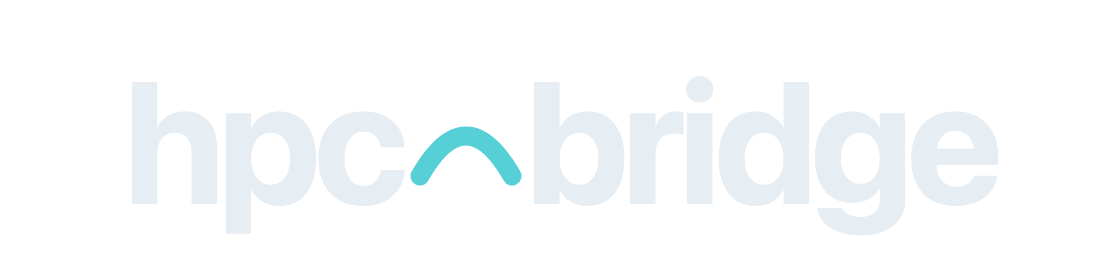
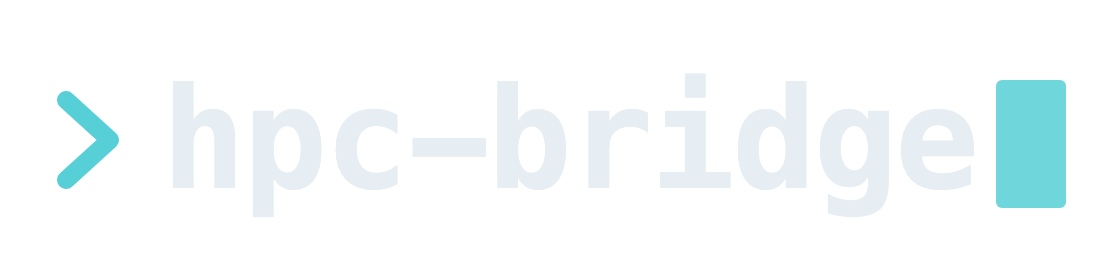
docs: the maintainer's round-2 answers — the Prompt wordmark, claims, and a guide for 0.1.27
- The wordmark is option 2, "Prompt": SF Mono with a teal chevron and a block cursor
  (docs/media/wordmark.html; option 1's markup is gone). The PNGs come from build.sh.
- "Tested live" lists only recent evidence: Purdue Anvil (November 2026, this release's
  batches, sized rows and environments included), ALCF Polaris and NCSA Delta (October
  2026). Midway is gone, and so is Expanse, whose last proof is on the older 4.16 client.
- Facilities: Globus Labs' cluster is out of the README until it is re-proven. Expanse
  stays, with a clause on SDSC's ask that workflow tools not run on its login nodes;
  docs/user/facilities.md gains the details (what runs there, teardown each session,
  or ask SDSC) and the Expanse row's date. The bring-your-own proof line goes too.
- docs/user/costs-and-stopping.md for 0.1.27: blocks sized to the work (slices, whole
  nodes, several nodes), memory beyond the cores' share raising the cores (#253), Jobs
  and their budget (the worst case, the cap and deadline, the meter, hand submits
  gated and adopted, SSH facilities only), stops that ask keep/cancel for jobs and
  refuse while a batch runs, and a block an earlier session left (#250).
- docs/user/batches-jobs-envs.md (new): what each is for, the prompts, what the agent
  shows before any spend, and the limits; linked from the guide's index and from the
  README's "What it can do".

diff --git a/docs/media/wordmark.html b/docs/media/wordmark.html
@@ -1,7 +1,7 @@
 <!doctype html>
 <!-- The README's wordmark: wordmark.png for GitHub's light page, wordmark-dark.png for its dark one.
      scripts/readme-media/build.sh renders each <figure data-out> at 2x on a transparent background (render.mjs marks).
-     System fonts only (SF Pro on macOS): an <img> can't load web fonts, and the PNG needs none. -->
+     System fonts only (SF Mono on macOS): an <img> can't load web fonts, and the PNG needs none. -->
 <html>
 <head>
 <meta charset="utf-8">
@@ -10,14 +10,15 @@
 body { margin: 0; padding: 20px; display: grid; gap: 20px; justify-content: start; background: transparent; }
 figure { margin: 0; width: 560px; height: 140px; display: flex; align-items: center; justify-content: center; color: var(--ink); }
 figure.dark { --ink: #e6edf3; --acc: #56d0d6; }
-/* SF Pro, bold and tight; the hyphen is the bridge, a span in the accent. */
-.mark { display: flex; align-items: baseline; font: 700 86px/1 system-ui, -apple-system, "Helvetica Neue", sans-serif; letter-spacing: -0.035em; }
-svg { width: 56px; height: 86px; margin: 0 2px 0 4px; align-self: center; transform: translateY(3px); overflow: visible; }
-path { fill: none; stroke: var(--acc); stroke-width: 9.5; stroke-linecap: round; }
+/* A REPL's prompt: SF Mono semibold, a chevron and a block cursor in the accent. */
+.mark { display: flex; align-items: center; font: 600 70px/1 ui-monospace, "SF Mono", Menlo, monospace; letter-spacing: -0.02em; }
+.chev { width: 34px; height: 56px; margin-right: 20px; overflow: visible; }
+.chev path { fill: none; stroke: var(--acc); stroke-width: 9; stroke-linecap: round; stroke-linejoin: round; }
+.cur { display: inline-block; width: 0.5em; height: 0.92em; margin-left: 10px; background: var(--acc); border-radius: 3px; opacity: 0.85; transform: translateY(2px); }
 </style>
 </head>
 <body>
-<figure data-out="wordmark.png"><div class="mark">hpc<svg viewBox="0 0 56 86" aria-hidden="true"><path d="M 5 58 Q 28 18 51 58" /></svg>bridge</div></figure>
-<figure class="dark" data-out="wordmark-dark.png"><div class="mark">hpc<svg viewBox="0 0 56 86" aria-hidden="true"><path d="M 5 58 Q 28 18 51 58" /></svg>bridge</div></figure>
+<figure data-out="wordmark.png"><div class="mark"><svg class="chev" viewBox="0 0 34 56" aria-hidden="true"><path d="M 6 8 L 28 28 L 6 48" /></svg>hpc-bridge<span class="cur"></span></div></figure>
+<figure class="dark" data-out="wordmark-dark.png"><div class="mark"><svg class="chev" viewBox="0 0 34 56" aria-hidden="true"><path d="M 6 8 L 28 28 L 6 48" /></svg>hpc-bridge<span class="cur"></span></div></figure>
 </body>
 </html>

diff --git a/docs/user/costs-and-stopping.md b/docs/user/costs-and-stopping.md
@@ -3,34 +3,52 @@
 ## Nothing is billed without your say-so
 
 Connecting, listing facilities, and logging in are free. Discovery on an SSH-bootstrap facility runs
-on a free login-node worker. The first thing that costs allocation is a compute block. Before the
-first one on a facility, the agent asks you one question, only for what you have not said: which
+on a free login-node worker. What costs allocation is a compute block (a batch's rows run on one too) and a job.
+Before the first block on a facility, the agent asks you one question, only for what you have not said: which
 allocation account to charge, where one is needed (when the registry knows where you find yours, the
-agent passes that on), and whether the partition is fine. The question names the partition and the
-account, where each came from (the registry's default, your own choice, a preset), the number of
+agent passes that on), and whether the partition and the size are fine. The question names the partition and the
+account, where each came from (the registry's default, your own choice, a preset), the block's size, the number of
 nodes and the walltime, and your yes is the confirmation. If you named the partition and the account
 yourself, or said "the defaults", the agent states them back in one line and starts. An account or
 partition set with `HPC_BRIDGE_ACCOUNT` or `HPC_BRIDGE_PARTITION` counts as named, and the agent says
 it is the preset; an account it remembers from an earlier session is only suggested, never used
-without asking.
+without asking. Jobs have a budget of their own, approved once: see [Jobs and their budget](#jobs-and-their-budget).
 
-A batch job the agent submits for you (`sbatch`, `qsub`) costs allocation the same way, from wherever
-it is submitted, so it asks before that too. Changing the partition or account later means a new
-block, so it asks again, and the switch does not cancel the old block. On an SSH-bootstrap facility
-it idles out on its own, and a stop before you confirm the new block ends it at once. On a
-facility-run endpoint nothing can cancel it: the agent gives you its job id, when hpc-bridge knows
-it, and the command that ends it. The partition and account you chose are kept for the session,
-after a stop too. On a facility-run, compute-only endpoint there is no free tier at all, so the
-question comes at the first command.
+Changing the partition, the account or the size later means a new block, so it asks again, and the switch does not
+cancel the old block. On an SSH-bootstrap facility it idles out on its own, and a stop before you confirm the new
+block ends it at once. On a facility-run endpoint nothing can cancel it: the agent gives you its job id, when
+hpc-bridge knows it, and the command that ends it. The partition, account and size you chose are kept for the
+session, after a stop too. On a facility-run, compute-only endpoint there is no free tier at all, so the question
+comes at the first command.
 
 ## What a block costs
 
-A block is a scheduler job — one node on every facility in the registry today — held for as long as you are active
-plus the facility's idle timeout (the agent quotes it when the facility publishes it, and says so when it does not). Its walltime is the facility's default unless you ask for another. The agent reports a
-session spend estimate; it is a real number only if you have set `HPC_BRIDGE_CHARGE_FACTOR` to your
-allocation's service-unit rate per node-hour (hpc-bridge does not know your facility's rates), and reads
-as zero otherwise, as it always does on unmetered machines such as Globus Labs' cluster. Zero does not
-mean free tier, it means unmetered.
+A block is a scheduler job sized to the work, held for as long as you are active plus the facility's idle timeout
+(the agent quotes it when the facility publishes it, and says so when it does not). Its walltime is the facility's
+default unless you ask for another.
+
+- **On a partition that shares nodes** (billed per core), the spend question proposes a slice of one node: 8 cores,
+  never more than half a node or a per-job cap allows, with the partition's default memory per core. Confirm it, or
+  ask for the cores, memory or GPUs the work needs, or a whole node.
+- **On a partition that hands out only whole nodes,** a block is a whole node, and bills every core of it.
+- **Several nodes** (not offered on a facility-run endpoint) are one shell on the first node: work reaches the
+  others through `srun` or `mpiexec`, and nodes the work does not use still bill.
+- **A batch with no block yet** gets one derived from its rows: see [Batches](batches-jobs-envs.md#batches).
+
+Where the partition's billing weights are known, the terms carry the most the block can cost, for example "at most
+4 SU: 8 cores × 0.5 h".
+
+**Memory beyond the cores' share.** A Slurm partition can cap the memory each core may hold (`MaxMemPerCPU`), and
+then gives, and bills, a block that asks for more memory than its cores' share the extra cores that memory needs.
+Where hpc-bridge knows the cap, the block asks for those cores itself and the terms say so, for example "15.5 GB
+needs 9 cores' memory share on partition 'shared' (1896 MB each): 9 cores are billed, and the block asks for 9, not
+8". Where it does not know the cap, it guesses nothing, and the terms say the scheduler may give, and bill, more cores
+than asked. On PBS, it raises the cores only where the registry's entry for the facility states the share.
+
+The agent reports a session spend estimate; it is a real number only if you have set `HPC_BRIDGE_CHARGE_FACTOR` to
+your allocation's service-unit rate per node-hour (hpc-bridge does not know your facility's rates), and reads as zero
+otherwise, as it always does on unmetered machines such as Globus Labs' cluster. Zero does not mean free tier, it
+means unmetered.
 
 ## Warm between commands
 
@@ -49,11 +67,30 @@ orphaned rather than left to poll forever.
 A task cannot outlive its block. When the block's walltime expires (30 minutes on Expanse by
 default, 15 on Anvil's facility endpoint), the task is killed with exit code 124 and you get the output it produced up to
 then; hpc-bridge does not resubmit it. For work longer than a block, either have it checkpoint and resume
-on the next block, or ask the agent to submit a batch job with `sbatch` or `qsub` and check on it later:
-from the login node, or, on a facility-run endpoint (which has no login node), from inside the block where
-the site allows it. That job is billed to your allocation like a block, so the agent asks before
-submitting it; hpc-bridge does not count it in the session spend and a stop does not cancel it, so ask for
-it to be cancelled (`scancel` or `qdel`) when you no longer want it.
+on the next block, or ask the agent to run it as a [job](batches-jobs-envs.md#jobs), which has its own walltime and
+outlives the session.
+
+## Jobs and their budget
+
+A job the agent submits for you costs allocation like a block, and runs under a budget you approve once. The first
+job proposes it, with nothing submitted yet: the job's worst case (every array task × its size × its walltime, never
+below the queue's minimum charge), a cap in the facility's billing units, and a deadline (24 hours unless you say
+otherwise, at most 7 days). Jobs of yours already in the queue that hpc-bridge did not start count against the cap
+and are named, so you can leave out one that isn't yours to count. Inside the budget, a job that fits starts at once;
+one that does not asks again, and the agent never splits or shrinks work to slip under it.
+
+hpc-bridge reads what its jobs have used from the scheduler's accounting (`sacct` on Slurm, `qstat` on PBS), and
+counts what a running job may still use (its remaining walltime) as held. Every Slurm job carries the deadline
+(`--deadline`), so none runs past it; on PBS the deadline is the server's to enforce. The budget binds only what
+hpc-bridge starts, and a new session asks for it again, naming what is left.
+
+A job you submit by hand (`sbatch`, `qsub`) bills too. While a budget is open, hpc-bridge asks first, runs your
+command as you wrote it, and adopts the jobs it started into the budget. With no budget open, the agent asks before
+it submits one, and hpc-bridge does not track it unless you ask the agent to adopt it.
+
+Jobs need a facility hpc-bridge reaches over SSH. A facility-run endpoint gives it no way to check on or cancel a
+job, so the agent refuses to submit one there: run the work as a [batch](batches-jobs-envs.md#batches) on one block
+instead.
 
 ## Stopping
 
@@ -87,6 +124,15 @@ it to be cancelled (`scancel` or `qdel`) when you no longer want it.
   an upper bound. If you use the block again after the stop, it counts from that new confirmation, so
   that stretch can count twice; a later stop never counts the same tail again. A block an earlier stop
   left was counted in the spend reported then, and a block a still-queued check starts is not counted.
+- **Jobs:** while jobs hpc-bridge started can still bill, a stop asks first and names each one, with nothing
+  cancelled yet. *Cancel* ends them too and closes their budget; the stop says `down` only once the scheduler lists
+  none of them. *Keep* releases only the blocks and leaves the jobs running under their budget and deadline; the
+  stop's `draining` then names them and how to end them. Either way, nothing new is admitted after a stop: the next
+  job asks for a new budget.
+- **Batches:** a stop is refused while a batch's rows are running on the block. Ask the agent to abort the batch, or
+  let its rows finish, then stop.
+- **Handoffs:** while an endpoint handoff you exported is unexpired, a stop on an endpoint hpc-bridge set up asks
+  whether to keep the consumer's pool running or cancel it too; on a facility-run endpoint it names the handoff.
 
 A stop is refused while a command of yours is still running on the block, because releasing the block
 would not end it: the endpoint would start another block to finish it. Interrupting a long command
@@ -95,8 +141,27 @@ as a task, and the stop is refused until it ends or the agent polls it to comple
 facility a teardown abandons it. On a facility-run endpoint nothing can end it early, and the stop waits
 for it unless it has had no result long after its time limit. It is then presumed lost and abandoned.
 
+## A block an earlier session left
+
+Each new chat usually starts a fresh hpc-bridge server, but a block the last session confirmed can still be running.
+hpc-bridge records every billed block before it asks the scheduler for it, and a later session checks those records
+against the scheduler before it starts anything:
+
+- **The connect names it:** its job, in the scheduler's own words (running, or pending and why), its terms, and
+  when it will end on its own.
+- **A yes on the same terms reuses it,** with no second block. Any other yes first asks, naming it, and starts
+  nothing.
+- **A stop reaches it even with nothing connected.** On an SSH-bootstrap facility the stop cancels it and says
+  `down` only once that is confirmed; otherwise it says `draining` and gives you the job id and the command that
+  ends it.
+
+Only blocks started from this machine by a session that is gone are reused or released; a block another session is
+still using, or another machine started, is named and never touched. On a facility-run endpoint the earlier block is
+named but can't be checked or cancelled, like any block there.
+
 ## If you walk away
 
 Idle blocks release themselves after the facility's timeout. A session that ends without a stop
 therefore costs at most that timeout on top of what you used. Quitting Claude Code does not cancel
-a block; ask for a stop first if you want it released now.
+a block; ask for a stop first if you want it released now. Jobs run on until they finish, reach their walltime or
+reach their budget's deadline; ending a session does not cancel them.

diff --git a/docs/user/facilities.md b/docs/user/facilities.md
@@ -22,7 +22,7 @@ an unknown host key is refused with **"UNKNOWN HOST KEY"** until you have connec
 | Facility | Access | Scheduler | Notes |
 |---|---|---|---|
 | **Purdue Anvil** (`anvil`, ACCESS) | facility-run endpoint, zero SSH | Slurm | your ACCESS identity must map to your Anvil account. Compute-only; account = your ACCESS project id lowercased (e.g. `cis250223`); default partition `shared`, one core per block. The entry sends no GPU request, and Anvil's GPU partitions need one, so a GPU job (and its `-gpu` account) cannot be used through this entry yet: hpc-bridge has no per-session way to add scheduler directives to a registry facility. Validated 2026-10-09. Anvil over SSH is no longer in the registry; it still works as a bring-your-own cluster (`anvil.rcac.purdue.edu`). |
-| **SDSC Expanse** (`expanse`, ACCESS) | SSH bootstrap on `login.expanse.sdsc.edu`, with a one-time code | Slurm | every login needs a TOTP code even with a key; the agent asks you for the current code and opens the shared session itself (a password, by contrast, is never handled in the chat: you would get an `ssh` command for your own terminal). The first connect installs `uv` and Globus Compute into your home there (a minute or two). Account = your Expanse project id (e.g. `chi152`); default partition `shared`, `debug` for short tests. Validated 2026-09-04 (login shape). |
+| **SDSC Expanse** (`expanse`, ACCESS) | SSH bootstrap on `login.expanse.sdsc.edu`, with a one-time code | Slurm | every login needs a TOTP code even with a key; the agent asks you for the current code and opens the shared session itself (a password, by contrast, is never handled in the chat: you would get an `ssh` command for your own terminal). The first connect installs `uv` and Globus Compute into your home there (a minute or two). Account = your Expanse project id (e.g. `chi152`); default partition `shared`, `debug` for short tests. SDSC asks that workflow tools not run on its login nodes: see [below](#sdsc-expanse-and-its-login-nodes). Validated 2026-10-06, on an older Globus Compute client than today's. |
 | **NCSA Delta** (`delta`, ACCESS) | facility-run endpoint, zero SSH | Slurm | compute-only; every command runs on a billed block. You need a Delta allocation and its NCSA project code as the account (looks like `bgta-delta-gpu`; see it with `accounts` on a Delta login node). Default partition `gpuA40x4` with one GPU requested; CPU partitions charge a CPU allocation. Validated 2026-09-04. |
 | **ALCF Polaris** (`polaris`) | facility-run endpoint, zero SSH | PBS Pro | link your ALCF identity (ALCF username + MobilePASS+) to your Globus login so the facility can map you to your ALCF account. Compute-only; account = your ALCF project name (e.g. `Diaspora`); default queue `debug` (`partition` sets the queue). The entry sends no scheduler directives, so jobs get the facility's default, `-l filesystems=home`: a job that needs `eagle` or `grand` cannot request them through this entry yet (hpc-bridge has no per-session way to add scheduler directives to a registry facility). Workers run ALCF's own Python 3.13 install. A stopped block idle-releases after 240 s. Validated 2026-10-13. |
 | **Globus Labs cluster** (`globus-labs`) | facility-run endpoint, zero SSH | Slurm | Globus Labs members only (the facility maps their identities). Compute-only: there is no login node, every command runs on a billed block on partition `main` that stays warm between commands; no allocation account needed; unmetered lab hardware (3 ARM DGX Spark nodes, aarch64: bring ARM builds) |
@@ -30,6 +30,20 @@ an unknown host key is refused with **"UNKNOWN HOST KEY"** until you have connec
 More facilities operate Globus Compute multi-user endpoints (ALCF Polaris and Crux, NeSI). hpc-bridge reads each facility endpoint's published template contract when it attaches,
 so adding one is a registry entry plus a live check; see the vault's
 [MEP facilities survey](../hpc-bridge-vault/Reference/MEP%20facilities%20survey.md).
+
+## SDSC Expanse and its login nodes
+
+SDSC's [Expanse user guide](https://www.sdsc.edu/systems/expanse/user_guide.html) ("Logging in to Expanse", notes
+and hints) asks you not to use the login nodes "as hosts for running workflow management tools". The registry
+reaches Expanse by the SSH bootstrap, which runs a Globus Compute endpoint (a small manager process, idle between
+tasks) on the login node and leaves it running between sessions so the next connect needs no SSH. The free
+discovery commands the agent runs (`sinfo`, `squeue`) run on the login node too; everything else runs in the billed
+block on a compute node. That plausibly falls under SDSC's rule, so on Expanse:
+
+- ask the agent for a *teardown* at the end of each session: it stops and removes the endpoint, and the next
+  session sets it up again (one SSH login with a one-time code, and a minute or two), as for any facility that
+  [forbids persistent processes on login nodes](#what-hpc-bridge-does-on-your-cluster);
+- or ask SDSC, through ACCESS support, whether a Globus Compute endpoint on a login node is acceptable for your use.
 
 ## Which Globus identity to use
 
@@ -50,8 +64,6 @@ one block for as long as you are active plus that timeout, not one block per com
 ## Bringing your own cluster
 
 > Connect me to the cluster at `login.example.edu`
-
-This path has been proven live on UChicago's Midway (Slurm) and on ALCF Polaris over SSH (PBS).
 
 The agent probes the login node over SSH, proposes the facility settings it discovered (scheduler,
 the network interface the endpoint should bind, scratch space, an environment setup line) and asks

diff --git a/docs/user/batches-jobs-envs.md b/docs/user/batches-jobs-envs.md
@@ -1,0 +1,88 @@
+# Batches, jobs and environments
+
+Beyond one command at a time, hpc-bridge has three ways to work. Ask for them in plain language; the agent picks the
+tool.
+
+| | What it's for | Where it runs | Lasts |
+|---|---|---|---|
+| **[Batch](#batches)** | the same command over many inputs | the session's block, several rows at once | as long as the block; its record outlives the session |
+| **[Job](#jobs)** | long work, arrays, work that waits on other work | its own scheduler job | its own walltime, after the session ends |
+| **[Environment](#environments)** | the software every command, row and job runs in | wherever they run | the session, and the jobs and handoffs that carry it |
+
+## Batches
+
+A batch sends one command over many rows, each with its own values, as many at once as the block holds. You size a
+row as you would an sbatch array task: its cores, its memory, its GPUs, and how many run at once. hpc-bridge pins
+each row to its own CPUs, sets its thread counts (`OMP_NUM_THREADS` and the like) to its cores, and records every row
+in a ledger that outlives the session, so a new chat can ask how it went.
+
+> Run `./simulate.sh {n}` for n = 1 to 200 as a batch: 4 cores and 8 GB per row, 10 at a time, up to 20 minutes each.
+
+> I don't know how big a row is. Run one as a pilot first.
+
+> How is the batch doing? Which rows failed, and why?
+
+> Stop the batch but let the running rows finish. / Abort the batch.
+
+**Before any spend.** With no block yet, the block is derived from the rows (10 rows of 4 cores and 8 GB at once is
+41 cores, one kept for your own commands, and their memory plus the workers' own, on one node), and the spend
+question names it like any block. With no size given, the agent asks you for one, quoting the node's cores, memory
+and GPUs. A *pilot* runs one row alone on the whole block and proposes a size from what it used (cores from its CPU
+time over its wall time, memory 1.25 × its peak), for you to confirm or change.
+
+**Limits.**
+- A batch runs on one node, at most 32 rows at once.
+- Each row needs a time limit; a row starts only while the block has that much walltime left, plus 30 seconds.
+- A row past its memory is killed (exit code 87) and named in the results with its peak use.
+- When the block ends under the batch (its walltime, a stop, a restart), the batch pauses and the agent asks before
+  it starts the next block.
+- A row's own `srun` runs where Slurm places it, not on the row's CPUs, and outside its memory watch.
+
+## Jobs
+
+A job is work the scheduler runs on its own: it outlives the session, and has its own walltime. hpc-bridge writes its
+script once, with the session's working directory and environment, and tracks it in the same ledger. Jobs can be
+arrays, and can wait for other jobs.
+
+> Submit `python train.py --epochs 50` as a job: 1 GPU, 8 cores, 32 GB, 6 hours.
+
+> Submit `./sweep.sh {index}` as an array of 20 tasks, 4 at a time, 30 minutes each.
+
+> What have my jobs used so far, and what's left of the budget?
+
+> Cancel job job-3f2a.
+
+**Before any spend.** The first job proposes a budget, with nothing submitted yet: the job's worst case (every array
+task × its size × its walltime, never below the queue's minimum charge), a cap, and a deadline (24 hours unless you say
+otherwise, at most 7 days). Your yes opens it; after that a job that fits starts at once, and one that doesn't asks
+again. [Jobs and their budget](costs-and-stopping.md#jobs-and-their-budget) has how it is counted, and what a stop does
+with jobs still running.
+
+**Limits.**
+- Jobs need a facility hpc-bridge reaches over SSH. A facility-run endpoint gives hpc-bridge no way to check on or
+  cancel a job, so the agent refuses there: run the work as a batch on one block instead.
+- The budget binds only what hpc-bridge starts, and a new session asks for it again.
+- On PBS the deadline is the server's to enforce; on Slurm every job carries it.
+
+## Environments
+
+Name an environment once, and every command, batch row and job runs in it. Switching starts no new block, so it asks
+nothing about spend.
+
+> Use `module load pytorch/2.4; conda activate ml` for everything.
+
+> Build an environment with numpy and scipy==1.14, and run the batch in it.
+
+**An existing environment** is a line that activates it (a `module load`, a `conda activate`, a `source`), and works
+on every facility. **A built environment** is made from a requirements list, with `uv`, on the free login node of an
+endpoint hpc-bridge set up over SSH. It is cached by Python version and requirements, made read-only, and used once it
+is ready: commands keep the previous environment while it builds. A build that fails leaves the previous one in
+place and quotes the installer's error.
+
+**Limits.**
+- A facility-run endpoint can't build an environment yet: give it an activate line instead.
+- A requirements list may not point at other files or hosts: `-r`, `-c`, `-e`, local paths, `--trusted-host` and
+  options outside a short allow-list are refused by name. Index credentials are never shown or stored in the clear.
+- A built environment runs only on nodes of the login node's CPU architecture.
+- A command whose environment has gone runs nothing (exit code 88); a purged built environment is rebuilt on the
+  login node, and anything a rebuild can't fix is said by name.

diff --git a/README.md b/README.md
@@ -88,24 +88,26 @@ comes back as a task the agent polls, and keeps the block busy while it runs.
 The same command over many inputs is one batch. You size a row as you would an sbatch array task, in cores, memory and
 GPUs; hpc-bridge derives the block from the rows, pins each row to its own CPUs, and records every row in a ledger
 that outlives the session. Not sure of the size? A pilot runs one row alone on the block and proposes one from what it
-used.
+used. [Batches](docs/user/batches-jobs-envs.md#batches) has the prompts and the limits.
 
 ### Jobs that outlive the session
 
 Long or array work can go to the scheduler as jobs, under a budget you approve once: a cap and a deadline, with each
-job's worst case counted against it. Jobs need a facility hpc-bridge reaches over SSH.
+job's worst case counted against it. Jobs need a facility hpc-bridge reaches over SSH; see
+[Jobs](docs/user/batches-jobs-envs.md#jobs).
 
 ### Environments
 
 Name an environment once, and every command, row and job runs in it: a `module load` or `conda activate` line on any
 facility, or, where hpc-bridge set up the endpoint itself, one it builds from a requirements list on the login node,
-for free. Switching environments starts no new block.
+for free. Switching environments starts no new block; see [Environments](docs/user/batches-jobs-envs.md#environments).
 
 ### The spend gate
 
 Nothing billed starts without your yes. Before a block, a job or a batch that needs one, the agent shows its terms:
 the partition, the account, the size, the walltime and the most it can bill, never understated. The check is in the
-server, not in the agent's judgement.
+server, not in the agent's judgement. [Costs and stopping](docs/user/costs-and-stopping.md) has the
+details.
 
 ### Picking up where you left off
 
@@ -132,8 +134,9 @@ its own endpoint, goes through Globus.</sub></p>
 
 ## Facilities
 
-The public registry has five: **ALCF Polaris** (PBS), **Purdue Anvil**, **NCSA Delta** and **Globus Labs' cluster**,
-each through the facility's own endpoint with zero SSH, and **SDSC Expanse** (Slurm), over SSH with a one-time code.
+The public registry includes **ALCF Polaris** (PBS), **Purdue Anvil** and **NCSA Delta**, each through the
+facility's own endpoint with zero SSH, and **SDSC Expanse** (Slurm), over SSH with a one-time code, though SDSC asks
+that workflow tools not run on its login nodes ([what that means here](docs/user/facilities.md#sdsc-expanse-and-its-login-nodes)).
 Any other Slurm or PBS cluster you reach with an SSH key works too: the agent probes its login node and proposes the
 settings for you to confirm. [Facilities](docs/user/facilities.md) says what each one needs from you, and
 [Adding a facility](docs/adding-a-facility.md) how a cluster joins the registry.
@@ -147,9 +150,9 @@ unfiltered, so read [Trusting the facility](docs/user/trust.md) before you conne
 
 ## Status
 
-**0.1.27.** Tested live, over its releases, on ALCF Polaris, Purdue Anvil, NCSA Delta, SDSC Expanse and UChicago's
-Midway, and against a local Slurm and PBS test cluster; batches with sized rows and environments were proven on
-Anvil. Each release's changes are in the [CHANGELOG](CHANGELOG.md). Please
+**0.1.27.** Tested live on Purdue Anvil in November 2026, this release's batches, sized rows and environments
+included, and on ALCF Polaris and NCSA Delta in October 2026; also against a local Slurm and PBS test cluster. Each
+release's changes are in the [CHANGELOG](CHANGELOG.md). Please
 [report rough edges](https://github.com/globus-labs/hpc-bridge/issues).
 
 ## Docs

diff --git a/docs/user/README.md b/docs/user/README.md
@@ -13,7 +13,8 @@ Prefer to watch first? [hpc-bridge in seven minutes](https://www.youtube.com/wat
 | [Quickstart](quickstart.md) | your first session, step by step, and what to expect |
 | [Facilities](facilities.md) | choosing a machine: what each facility needs from you |
 | [The Globus login](login.md) | the one credential hpc-bridge needs, and why your browser opens |
-| [Costs and stopping](costs-and-stopping.md) | how spend is gated, what "stop" means, long-running work |
+| [Batches, jobs and environments](batches-jobs-envs.md) | running many inputs on one block, work that outlives the session, and the software it runs in |
+| [Costs and stopping](costs-and-stopping.md) | how spend is gated, what a block and a job cost, what "stop" means, long-running work |
 | [Troubleshooting](troubleshooting.md) | what a refusal or a stuck state means and what to do |
 | [Trusting the facility](trust.md) | connecting to a cluster you don't fully trust: planted instructions in its output |
 
@@ -35,10 +36,7 @@ discovers). [Facilities](facilities.md) has the table and the registered machine
 Nothing hpc-bridge-specific is configured by hand. [Install](install.md) has each prerequisite in full.
 
 **What it is not, yet:** it moves command output, not files (use Globus Transfer or `scp` for results);
-Slurm and PBS are the supported schedulers. Batches, tracked jobs and environments (0.1.27) are newer than this
-guide: until it covers them, the [README](../../README.md#what-it-can-do) says what each does, and the vault's
-[Batch and swarm execution](../hpc-bridge-vault/Planned/Batch%20and%20swarm%20execution.md) and
-[Block environments](../hpc-bridge-vault/Planned/Block%20environments.md) notes have the detail.
+Slurm and PBS are the supported schedulers.
 
 The developer documentation (design, internals, the tool reference) lives in the
 [vault](../hpc-bridge-vault/Home.md).
